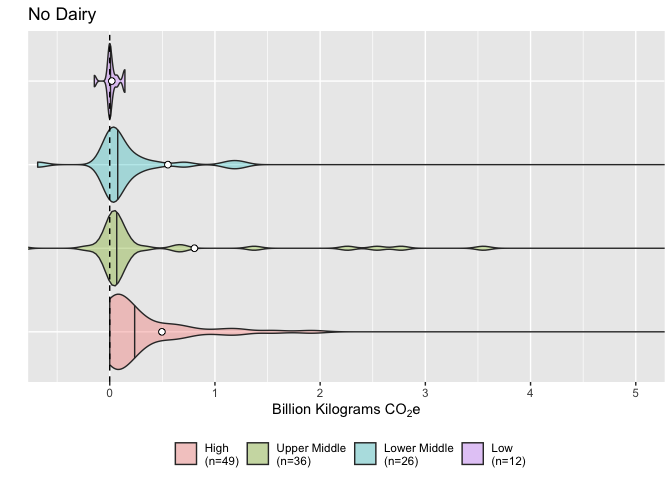
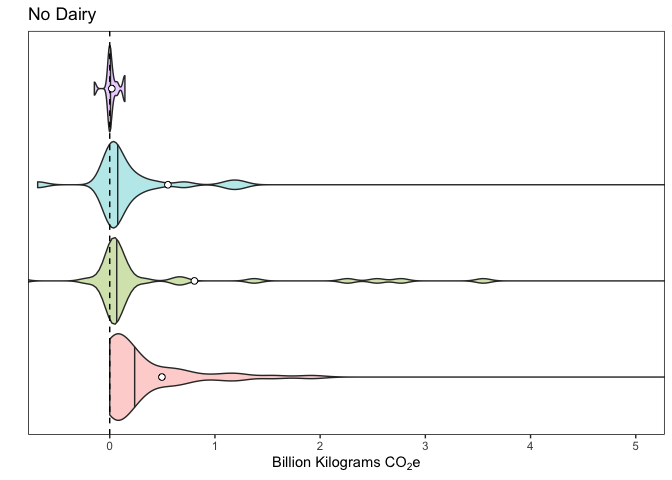
removed plot gridlines for cleaner aesthetic and used ggarrange to aggregate each of the pop-level cf reduction estimates across scenarios into a single figure

diff --git a/analysis/analysis-script.md b/analysis/analysis-script.md
@@ -374,7 +374,7 @@ vegan_cf_dec_pop_bp <- ggplot(reduction_modeling_data,aes(x=dec_pop_vegan_kg_co2
   xlab(bquote('Billion Kilograms CO'[2]*'e')) +
   ylab("") +
   ggtitle("Vegan") +
-  theme(legend.title=element_blank(),legend.position="bottom",axis.text.y=element_blank(),axis.ticks.y=element_blank())
+  theme(panel.background=element_rect(fill="white"),panel.border=element_rect(fill=NA),legend.title=element_blank(),legend.position="bottom",axis.text.y=element_blank(),axis.ticks.y=element_blank())
 vegan_cf_dec_pop_bp
 ```
 
@@ -392,7 +392,7 @@ vegan_cf_dec_pop_vp <- ggplot(reduction_modeling_data,aes(x=dec_pop_vegan_kg_co2
   xlab(bquote('Billion Kilograms CO'[2]*'e')) +
   ylab("") +
   ggtitle("Vegan") +
-  theme(legend.title=element_blank(),legend.position="bottom",axis.text.y=element_blank(),axis.ticks.y=element_blank())
+  theme(panel.background=element_rect(fill="white"),panel.border=element_rect(fill=NA),legend.title=element_blank(),legend.position="bottom",axis.text.y=element_blank(),axis.ticks.y=element_blank())
 vegan_cf_dec_pop_vp
 ```
 
@@ -410,7 +410,7 @@ X2.3_vegan_cf_dec_pop_bp <- ggplot(reduction_modeling_data,aes(x=dec_pop_X2.3_ve
   xlab(bquote('Billion Kilograms CO'[2]*'e')) +
   ylab("") +
   ggtitle("2/3 Vegan") +
-  theme(legend.title=element_blank(),legend.position="bottom",axis.text.y=element_blank(),axis.ticks.y=element_blank())
+  theme(panel.background=element_rect(fill="white"),panel.border=element_rect(fill=NA),legend.title=element_blank(),legend.position="bottom",axis.text.y=element_blank(),axis.ticks.y=element_blank())
 X2.3_vegan_cf_dec_pop_bp
 ```
 
@@ -428,7 +428,7 @@ X2.3_vegan_cf_dec_pop_vp <- ggplot(reduction_modeling_data,aes(x=dec_pop_X2.3_ve
   xlab(bquote('Billion Kilograms CO'[2]*'e')) +
   ylab("") +
   ggtitle("2/3 Vegan") +
-  theme(legend.title=element_blank(),legend.position="bottom",axis.text.y=element_blank(),axis.ticks.y=element_blank())
+  theme(panel.background=element_rect(fill="white"),panel.border=element_rect(fill=NA),legend.title=element_blank(),legend.position="none",axis.text.y=element_blank(),axis.ticks.y=element_blank())
 X2.3_vegan_cf_dec_pop_vp
 ```
 
@@ -446,7 +446,7 @@ lacto_ovo_vegetarian_cf_dec_pop_bp <- ggplot(reduction_modeling_data,aes(x=dec_p
   xlab(bquote('Billion Kilograms CO'[2]*'e')) +
   ylab("") +
   ggtitle("Vegetarian") +
-  theme(legend.title=element_blank(),legend.position="bottom",axis.text.y=element_blank(),axis.ticks.y=element_blank())
+  theme(panel.background=element_rect(fill="white"),panel.border=element_rect(fill=NA),legend.title=element_blank(),legend.position="bottom",axis.text.y=element_blank(),axis.ticks.y=element_blank())
 lacto_ovo_vegetarian_cf_dec_pop_bp
 ```
 
@@ -464,7 +464,7 @@ lacto_ovo_vegetarian_cf_dec_pop_vp <- ggplot(reduction_modeling_data,aes(x=dec_p
   xlab(bquote('Billion Kilograms CO'[2]*'e')) +
   ylab("") +
   ggtitle("Vegetarian") +
-  theme(legend.title=element_blank(),legend.position="bottom",axis.text.y=element_blank(),axis.ticks.y=element_blank())
+  theme(panel.background=element_rect(fill="white"),panel.border=element_rect(fill=NA),legend.title=element_blank(),legend.position="none",axis.text.y=element_blank(),axis.ticks.y=element_blank())
 lacto_ovo_vegetarian_cf_dec_pop_vp
 ```
 
@@ -482,14 +482,14 @@ pescetarian_cf_dec_pop_bp <- ggplot(reduction_modeling_data,aes(x=dec_pop_pescet
   xlab(bquote('Billion Kilograms CO'[2]*'e')) +
   ylab("") +
   ggtitle("Pescetarian") +
-  theme(legend.title=element_blank(),legend.position="bottom",axis.text.y=element_blank(),axis.ticks.y=element_blank())
+  theme(panel.background=element_rect(fill="white"),panel.border=element_rect(fill=NA),legend.title=element_blank(),legend.position="bottom",axis.text.y=element_blank(),axis.ticks.y=element_blank())
 pescetarian_cf_dec_pop_bp
 ```
 
 ![](analysis-script_files/figure-gfm/unnamed-chunk-22-1.png)<!-- -->
 
 ``` r
-pecetarian_cf_dec_pop_vp <- ggplot(reduction_modeling_data,aes(x=dec_pop_pescetarian_kg_co2e_total,y=income.classification,fill=income.classification)) + 
+pescetarian_cf_dec_pop_vp <- ggplot(reduction_modeling_data,aes(x=dec_pop_pescetarian_kg_co2e_total,y=income.classification,fill=income.classification)) + 
   geom_violin(scale="width",draw_quantiles=0.5,adjust=1,alpha=0.33,trim=TRUE) +
   scale_fill_discrete(limits=c("high","upper middle","lower middle","low"),labels=c("High\n(n=49)","Upper Middle\n(n=36)","Lower Middle\n(n=26)","Low\n(n=12)")) +
   scale_y_discrete(limits=c("high","upper middle","lower middle","low")) +
@@ -500,8 +500,8 @@ pecetarian_cf_dec_pop_vp <- ggplot(reduction_modeling_data,aes(x=dec_pop_pesceta
   xlab(bquote('Billion Kilograms CO'[2]*'e')) +
   ylab("") +
   ggtitle("Pescetarian") +
-  theme(legend.title=element_blank(),legend.position="bottom",axis.text.y=element_blank(),axis.ticks.y=element_blank())
-pecetarian_cf_dec_pop_vp
+  theme(panel.background=element_rect(fill="white"),panel.border=element_rect(fill=NA),legend.title=element_blank(),legend.position="none",axis.text.y=element_blank(),axis.ticks.y=element_blank())
+pescetarian_cf_dec_pop_vp
 ```
 
 ![](analysis-script_files/figure-gfm/unnamed-chunk-23-1.png)<!-- -->
@@ -518,7 +518,7 @@ no_red_meat_cf_dec_pop_bp <- ggplot(reduction_modeling_data,aes(x=dec_pop_no_red
   xlab(bquote('Billion Kilograms CO'[2]*'e')) +
   ylab("") +
   ggtitle("No Red Meat") +
-  theme(legend.title=element_blank(),legend.position="bottom",axis.text.y=element_blank(),axis.ticks.y=element_blank())
+  theme(panel.background=element_rect(fill="white"),panel.border=element_rect(fill=NA),legend.title=element_blank(),legend.position="bottom",axis.text.y=element_blank(),axis.ticks.y=element_blank())
 no_red_meat_cf_dec_pop_bp
 ```
 
@@ -536,7 +536,7 @@ no_red_meat_cf_dec_pop_vp <- ggplot(reduction_modeling_data,aes(x=dec_pop_no_red
   xlab(bquote('Billion Kilograms CO'[2]*'e')) +
   ylab("") +
   ggtitle("No Red Meat") +
-  theme(legend.title=element_blank(),legend.position="bottom",axis.text.y=element_blank(),axis.ticks.y=element_blank())
+  theme(panel.background=element_rect(fill="white"),panel.border=element_rect(fill=NA),legend.title=element_blank(),legend.position="none",axis.text.y=element_blank(),axis.ticks.y=element_blank())
 no_red_meat_cf_dec_pop_vp
 ```
 
@@ -554,7 +554,7 @@ low_red_meat_cf_dec_pop_bp <- ggplot(reduction_modeling_data,aes(x=dec_pop_low_r
   xlab(bquote('Billion Kilograms CO'[2]*'e')) +
   ylab("") +
   ggtitle("Low Red Meat") +
-  theme(legend.title=element_blank(),legend.position="bottom",axis.text.y=element_blank(),axis.ticks.y=element_blank())
+  theme(panel.background=element_rect(fill="white"),panel.border=element_rect(fill=NA),legend.title=element_blank(),legend.position="bottom",axis.text.y=element_blank(),axis.ticks.y=element_blank())
 low_red_meat_cf_dec_pop_bp
 ```
 
@@ -572,7 +572,7 @@ low_red_meat_cf_dec_pop_vp <- ggplot(reduction_modeling_data,aes(x=dec_pop_low_r
   xlab(bquote('Billion Kilograms CO'[2]*'e')) +
   ylab("") +
   ggtitle("Low Red Meat") +
-  theme(legend.title=element_blank(),legend.position="bottom",axis.text.y=element_blank(),axis.ticks.y=element_blank())
+  theme(panel.background=element_rect(fill="white"),panel.border=element_rect(fill=NA),legend.title=element_blank(),legend.position="none",axis.text.y=element_blank(),axis.ticks.y=element_blank())
 low_red_meat_cf_dec_pop_vp
 ```
 
@@ -590,7 +590,7 @@ no_dairy_cf_dec_pop_bp <- ggplot(reduction_modeling_data,aes(x=dec_pop_no_dairy_
   xlab(bquote('Billion Kilograms CO'[2]*'e')) +
   ylab("") +
   ggtitle("No Dairy") +
-  theme(legend.title=element_blank(),legend.position="bottom",axis.text.y=element_blank(),axis.ticks.y=element_blank())
+  theme(panel.background=element_rect(fill="white"),panel.border=element_rect(fill=NA),legend.title=element_blank(),legend.position="bottom",axis.text.y=element_blank(),axis.ticks.y=element_blank())
 no_dairy_cf_dec_pop_bp
 ```
 
@@ -608,7 +608,7 @@ no_dairy_cf_dec_pop_vp <- ggplot(reduction_modeling_data,aes(x=dec_pop_no_dairy_
   xlab(bquote('Billion Kilograms CO'[2]*'e')) +
   ylab("") +
   ggtitle("No Dairy") +
-  theme(legend.title=element_blank(),legend.position="bottom",axis.text.y=element_blank(),axis.ticks.y=element_blank())
+  theme(panel.background=element_rect(fill="white"),panel.border=element_rect(fill=NA),legend.title=element_blank(),legend.position="none",axis.text.y=element_blank(),axis.ticks.y=element_blank())
 no_dairy_cf_dec_pop_vp
 ```
 
@@ -626,7 +626,7 @@ meatless_day_cf_dec_pop_bp <- ggplot(reduction_modeling_data,aes(x=dec_pop_meatl
   xlab(bquote('Billion Kilograms CO'[2]*'e')) +
   ylab("") +
   ggtitle("Meatless Day") +
-  theme(legend.title=element_blank(),legend.position="bottom",axis.text.y=element_blank(),axis.ticks.y=element_blank())
+  theme(panel.background=element_rect(fill="white"),panel.border=element_rect(fill=NA),legend.title=element_blank(),legend.position="bottom",axis.text.y=element_blank(),axis.ticks.y=element_blank())
 meatless_day_cf_dec_pop_bp
 ```
 
@@ -644,11 +644,21 @@ meatless_day_cf_dec_pop_vp <- ggplot(reduction_modeling_data,aes(x=dec_pop_meatl
   xlab(bquote('Billion Kilograms CO'[2]*'e')) +
   ylab("") +
   ggtitle("Meatless Day") +
-  theme(legend.title=element_blank(),legend.position="bottom",axis.text.y=element_blank(),axis.ticks.y=element_blank())
+  theme(panel.background=element_rect(fill="white"),panel.border=element_rect(fill=NA),legend.title=element_blank(),legend.position="none",axis.text.y=element_blank(),axis.ticks.y=element_blank())
 meatless_day_cf_dec_pop_vp
 ```
 
 ![](analysis-script_files/figure-gfm/unnamed-chunk-31-1.png)<!-- -->
+
+``` r
+library(egg)
+```
+
+``` r
+ggarrange(meatless_day_cf_dec_pop_vp,no_dairy_cf_dec_pop_vp,low_red_meat_cf_dec_pop_vp,no_red_meat_cf_dec_pop_vp,pescetarian_cf_dec_pop_vp,lacto_ovo_vegetarian_cf_dec_pop_vp,X2.3_vegan_cf_dec_pop_vp,vegan_cf_dec_pop_vp,ncol=1,labels=c("A","","","","","","",""))
+```
+
+![](analysis-script_files/figure-gfm/unnamed-chunk-33-1.png)<!-- -->
 
 remember to change out parent dataset so that it includes GNI for
 scatterplot
